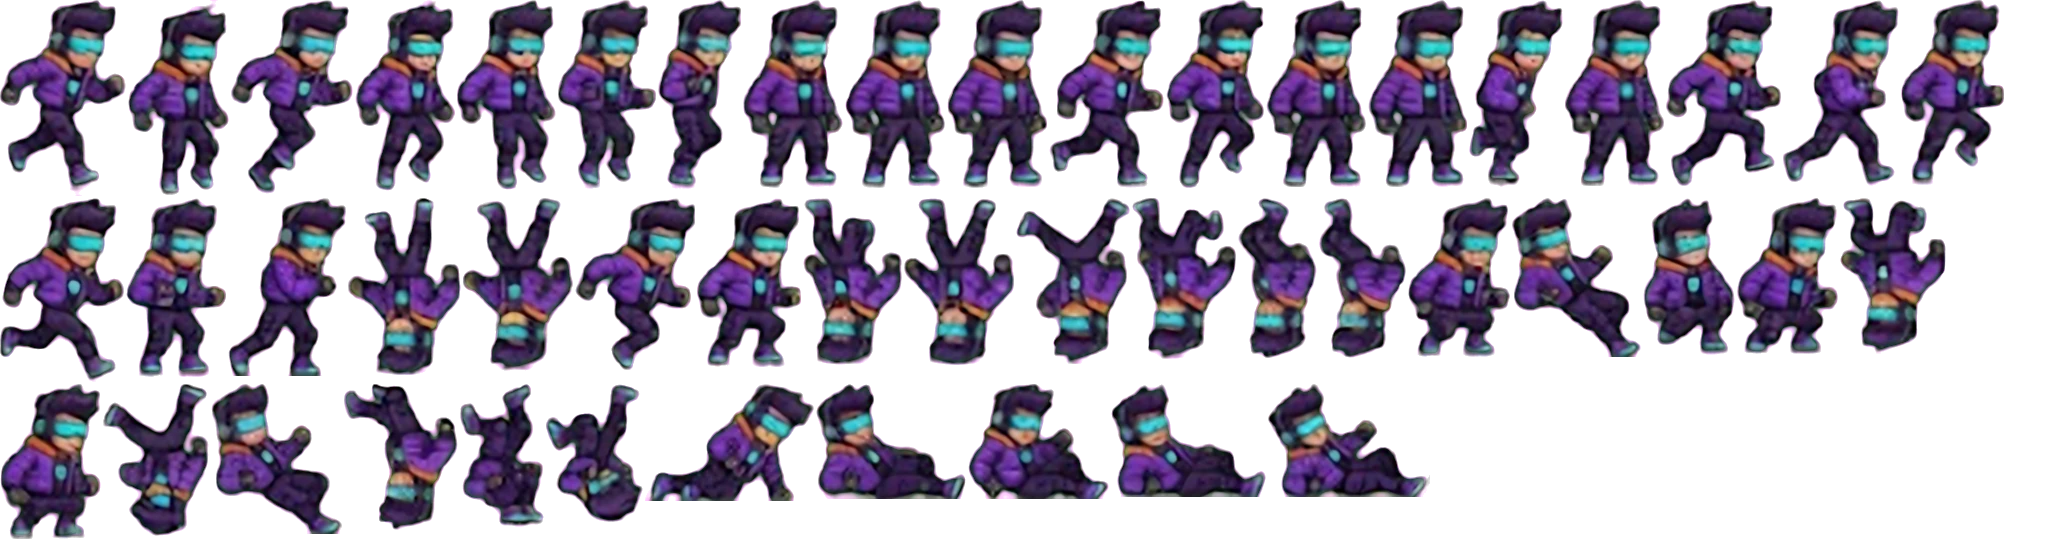
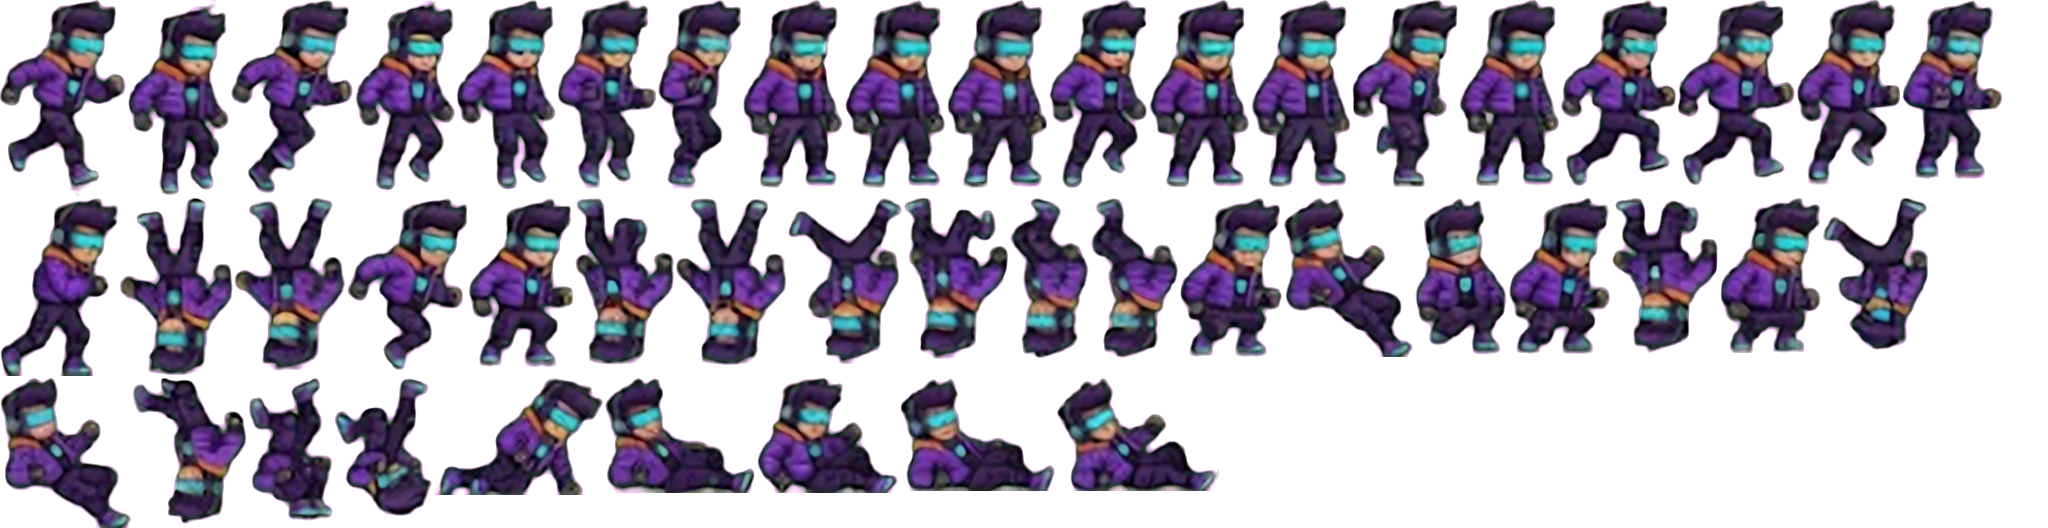
Fix the run animation
- Run cycle rebuilt as one footfall in six distinct poses (contact, gather,
  tuck, passing, reach, flight) instead of holding one stride pose
- Plays once per step so a foot lands on every stone, on the beat
- Frames pinned by the head so it no longer jitters between poses
- Feet follow the thin rest slabs down instead of floating above them

Claude-Session: https://claude.ai/code/session_01MBaYbeoQbhMyMEWME9NfJU

diff --git a/index.html b/index.html
@@ -1667,8 +1667,10 @@ function rune(d,x,y,r,t,near,relic){
   cx.restore();
 }
 function colH(i){if(i<0)return 1;const s=G.steps[i];return s&&s.state!=='rest'&&s.state!=='pending'?s.h:G.lastH}
-function runY(p){const a=Math.floor(p),f=p-a,ya=topY(colH(a)),yb=topY(colH(a+1)),e=f*f*(3-2*f);
-  return ya+(yb-ya)*e-Math.sin(Math.PI*f)*(ya!==yb?15:2.5)}
+/* The thin slabs of a rest stretch sit 4px lower than a carved stone, so the runner's feet follow them down. */
+function colDrop(i){if(i<0)return 4;const s=G.steps[i];return s&&s.state==='carry'?4:0}
+function runY(p){const a=Math.floor(p),f=p-a,ya=topY(colH(a))+colDrop(a),yb=topY(colH(a+1))+colDrop(a+1),e=f*f*(3-2*f);
+  return ya+(yb-ya)*e-Math.sin(Math.PI*f)*(Math.abs(ya-yb)>5?15:1.5)}
 /* Acrobatics: once the multiplier reaches x3 the runner stops merely running. */
 const TRICKS=['flip','leap','slide'];
 const trickLift=tr=>tr?(tr.k==='slide'?0:Math.sin(Math.PI*tr.u)*(tr.k==='flip'?26:20)):0;
@@ -1694,8 +1696,8 @@ function trickNow(t,p){
   return{k,u:0};
 }
 /* ---------- the hero sprite: frames cut from the player's own sheet, packed in hero.webp ---------- */
-const FR={"idle0":[1565,0,99,186,53.4,185.0],"idle1":[1266,0,100,187,53.9,186.0],"idle2":[743,0,100,188,52.9,186.0],"idle3":[845,0,100,188,53.8,186.0],"idle4":[947,0,100,188,53.8,186.0],"idle5":[1368,0,99,187,53.6,186.0],"run0":[1666,0,115,186,62.0,186.0],"run1":[1049,0,115,188,66.0,183.0],"run2":[1783,0,116,186,73.1,184.0],"run3":[0,198,124,184,68.3,183.0],"run4":[0,0,126,196,68.0,185.0],"run5":[231,0,122,194,68.0,192.0],"run6":[575,198,120,172,68.9,185.0],"run7":[1469,0,94,187,49.7,180.0],"jp0":[1737,198,101,156,56.5,153.0],"jp1":[697,198,104,169,57.6,166.0],"jp2":[1901,0,103,185,55.0,182.0],"jp3":[1166,0,98,188,53.3,194.0],"jp4":[355,0,100,191,54.2,202.0],"jp5":[128,0,101,195,54.5,208.0],"jp6":[457,0,99,190,52.9,195.0],"jp7":[558,0,98,189,48.3,186.0],"jp8":[126,198,100,179,49.8,176.0],"jp9":[1408,198,102,159,57.2,156.0],"fl0":[658,0,83,189,38.3,187.0],"fl1":[1238,198,79,160,39.0,182.0],"fl2":[1319,198,87,160,40.9,174.0],"fl3":[344,384,114,146,62.1,157.0],"fl4":[1840,198,106,156,51.1,156.0],"fl5":[1132,198,104,161,48.6,158.0],"fl6":[803,198,99,167,44.8,163.0],"fl7":[904,198,110,167,56.2,163.0],"fl8":[348,198,113,177,59.1,173.0],"fl9":[463,198,110,173,57.5,169.0],"fl10":[1016,198,114,166,64.5,164.0],"fl11":[103,384,106,152,60.0,158.0],"fl12":[546,384,97,138,52.1,148.0],"fl13":[460,384,84,143,43.7,146.0],"fl14":[1643,198,92,157,43.8,154.0],"fl15":[0,384,101,155,52.3,152.0],"sl0":[1512,198,129,159,55.0,159.0],"sl1":[211,384,131,150,55.7,150.0],"sl2":[816,384,150,115,56.8,115.0],"sl3":[1111,384,155,113,60.2,113.0],"sl4":[1268,384,162,113,65.6,113.0],"sl5":[968,384,141,115,60.4,115.0],"sl6":[645,384,169,117,97.1,117.0],"sl7":[228,198,118,178,65.4,178.0]};
-const SEQ={idle:['idle0','idle1','idle2','idle3','idle4','idle5'],run:['run0','run1','run2','run3','run4','run5','run6','run7'],
+const FR={"idle0":[1460,0,99,186,53.4,185.0],"idle1":[1149,0,100,187,53.9,186.0],"idle2":[743,0,100,188,52.9,186.0],"idle3":[845,0,100,188,53.8,186.0],"idle4":[947,0,100,188,53.8,186.0],"idle5":[1251,0,99,187,53.6,186.0],"run0":[1561,0,115,186,76.4,186.0],"run1":[1678,0,117,185,74.5,189.0],"run2":[0,0,126,196,80.7,185.0],"run3":[231,0,122,194,82.7,187.0],"run4":[347,198,120,172,84.4,188.0],"run5":[1352,0,106,187,74.4,183.0],"jp0":[1509,198,101,156,56.5,153.0],"jp1":[469,198,104,169,57.6,166.0],"jp2":[1797,0,103,185,55.0,182.0],"jp3":[1049,0,98,188,53.3,194.0],"jp4":[355,0,100,191,54.2,202.0],"jp5":[128,0,101,195,54.5,208.0],"jp6":[457,0,99,190,52.9,195.0],"jp7":[558,0,98,189,48.3,186.0],"jp8":[1902,0,100,179,49.8,176.0],"jp9":[1180,198,102,159,57.2,156.0],"fl0":[658,0,83,189,38.3,187.0],"fl1":[1010,198,79,160,39.0,182.0],"fl2":[1091,198,87,160,40.9,174.0],"fl3":[133,378,114,146,62.1,157.0],"fl4":[1612,198,106,156,51.1,156.0],"fl5":[904,198,104,161,48.6,158.0],"fl6":[575,198,99,167,44.8,163.0],"fl7":[676,198,110,167,56.2,163.0],"fl8":[120,198,113,177,59.1,173.0],"fl9":[235,198,110,173,57.5,169.0],"fl10":[788,198,114,166,64.5,164.0],"fl11":[1823,198,106,152,60.0,158.0],"fl12":[335,378,97,138,52.1,148.0],"fl13":[249,378,84,143,43.7,146.0],"fl14":[1415,198,92,157,43.8,154.0],"fl15":[1720,198,101,155,52.3,152.0],"sl0":[1284,198,129,159,55.0,159.0],"sl1":[0,378,131,150,55.7,150.0],"sl2":[605,378,150,115,56.8,115.0],"sl3":[900,378,155,113,60.2,113.0],"sl4":[1057,378,162,113,65.6,113.0],"sl5":[757,378,141,115,60.4,115.0],"sl6":[434,378,169,117,97.1,117.0],"sl7":[0,198,118,178,65.4,178.0]};
+const SEQ={idle:['idle0','idle1','idle2','idle3','idle4','idle5'],run:['run0','run1','run2','run3','run4','run5'],
   flip:['fl0','fl1','fl2','fl3','fl4','fl5','fl6','fl7','fl8','fl9','fl10','fl11','fl12','fl13','fl14','fl15'],leap:['jp0','jp1','jp2','jp3','jp4','jp5','jp6','jp7','jp8','jp9'],
   slide:['sl0','sl1','sl2','sl3','sl4','sl5','sl6','sl7']};
 const HS=56/186,HERO={img:null,ok:false,tints:{},order:[]};
@@ -1739,7 +1741,11 @@ function human(t,pos,rx,ry,sk,alpha,ghost,tr,still,hop,lift){
   if(tr){const q=SEQ[tr.k];name=q[Math.min(q.length-1,Math.floor(tr.u*q.length))]}
   else if(still)name=SEQ.idle[Math.floor(t*5)%SEQ.idle.length];
   else if(hop)name='jp4';
-  else{const n=SEQ.run.length;name=SEQ.run[Math.floor((((pos/2)%1)+1)%1*n)%n]}
+  else{
+    /* One footfall per step: the six frames run reach, flight, contact, gather, tuck, passing,
+       and the contact frame lands as the runner reaches each stone, on the beat. */
+    const n=SEQ.run.length;name=SEQ.run[(Math.floor(((pos%1)+1)%1*n)+2)%n];
+  }
   cx.save();cx.translate(rx,ry);
   if(!ghost){
     const up=(lift||0)+(hop?8:0);
